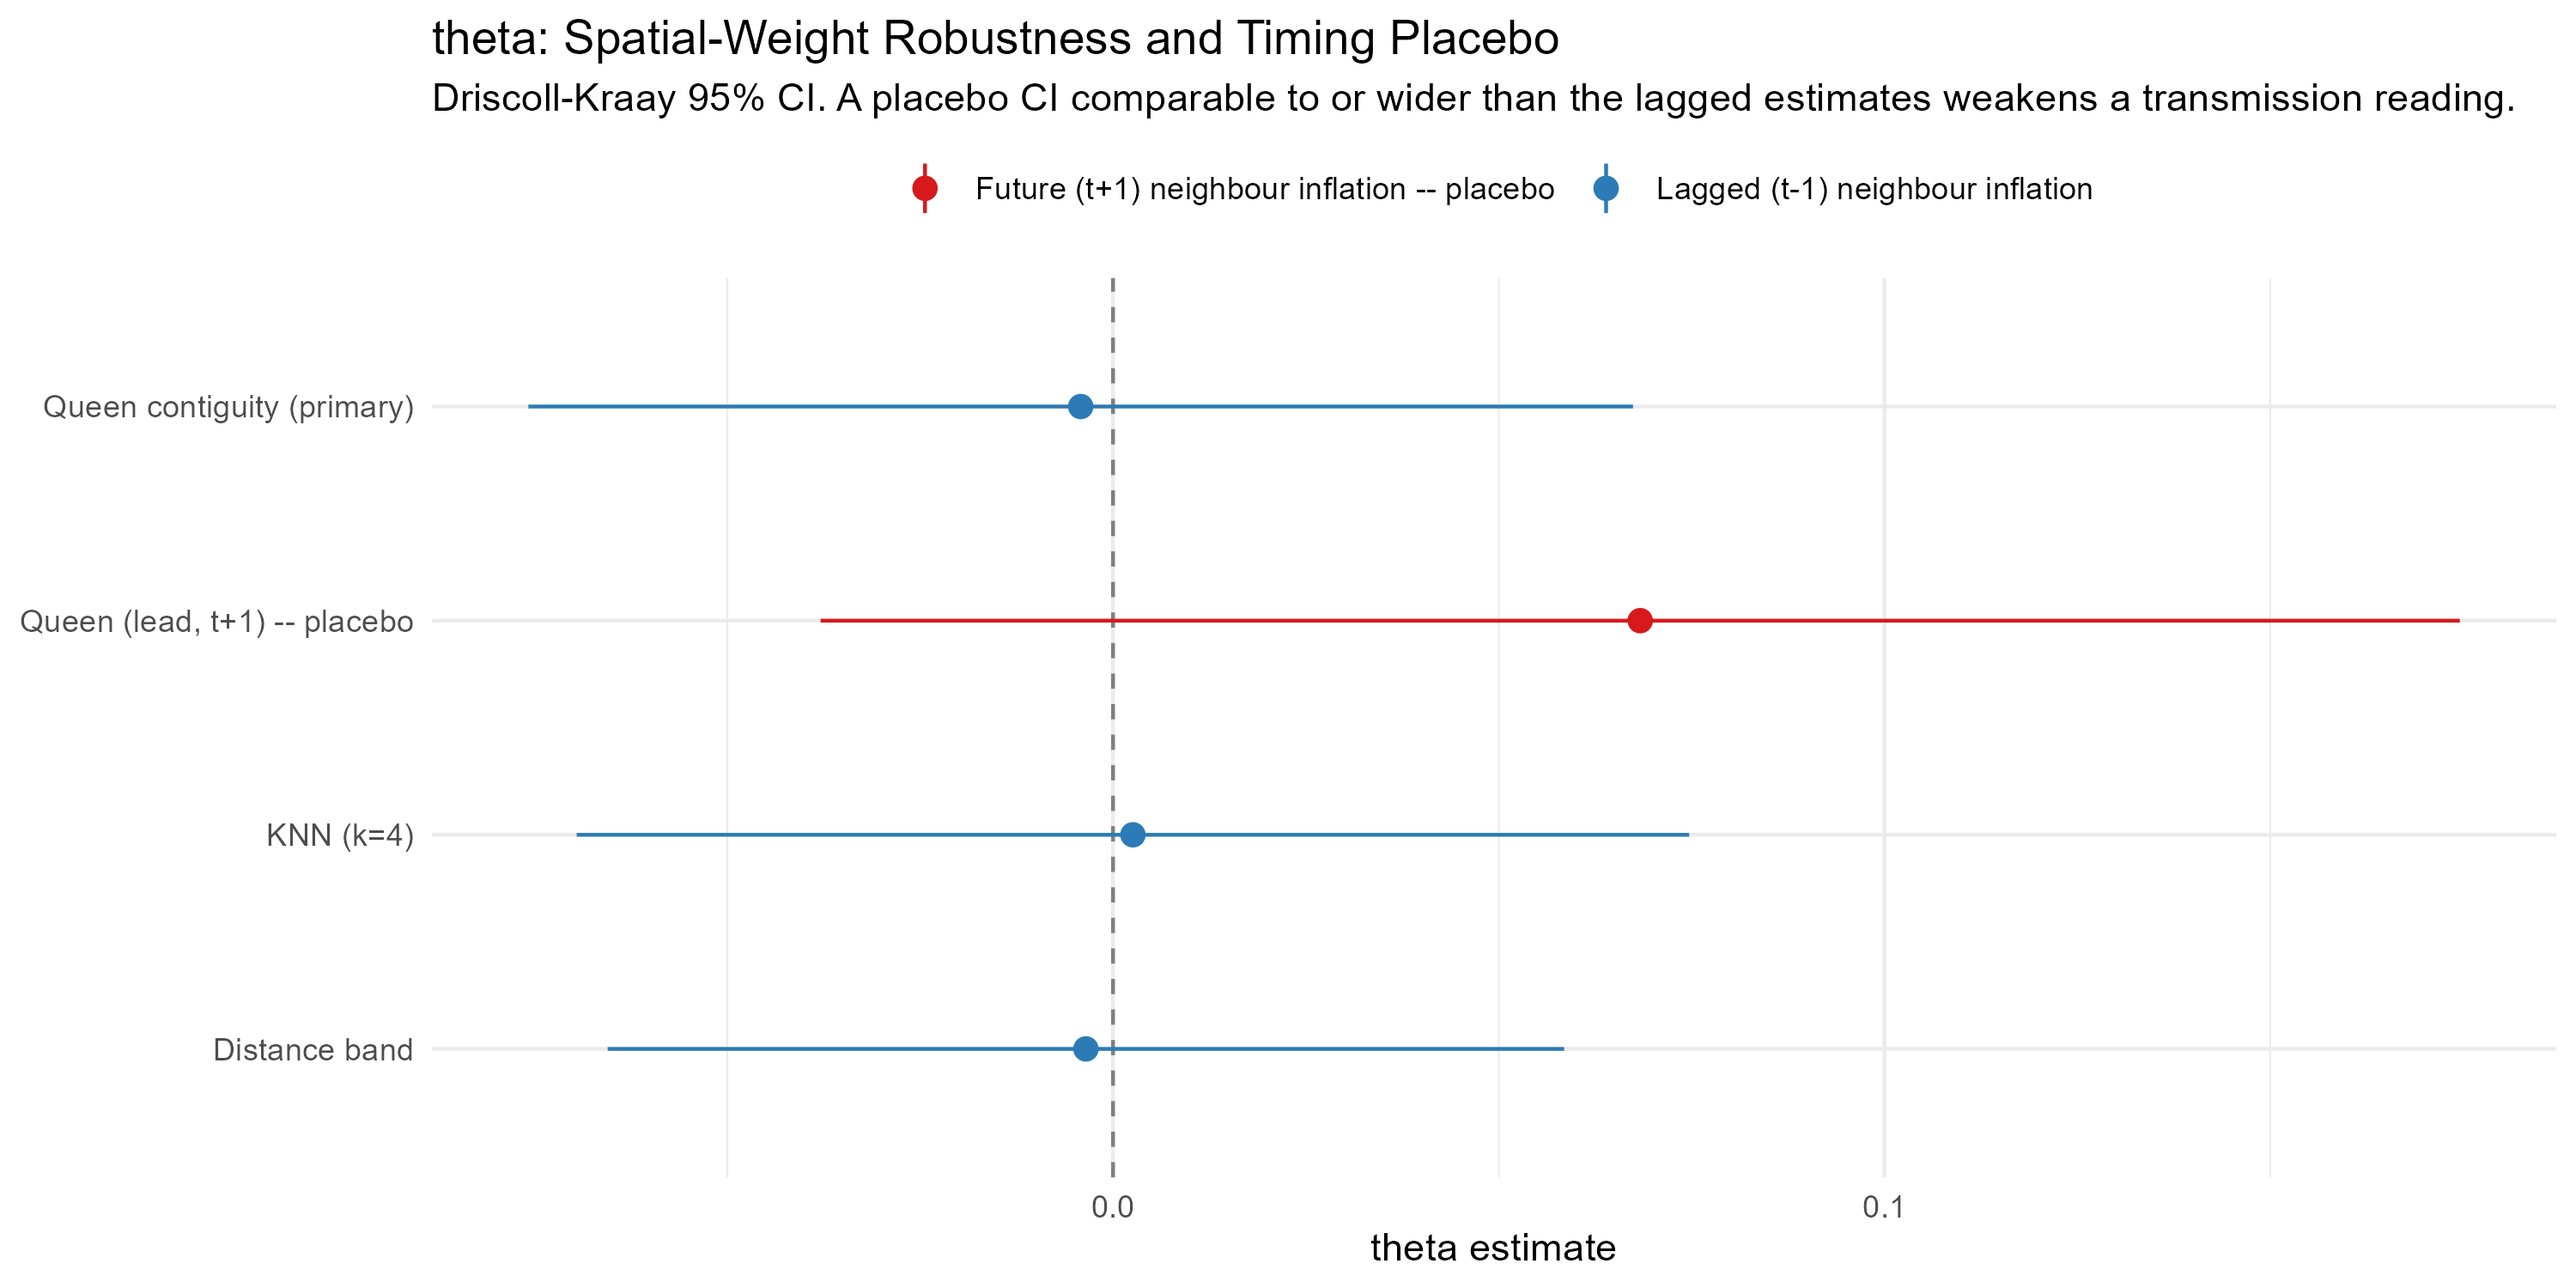
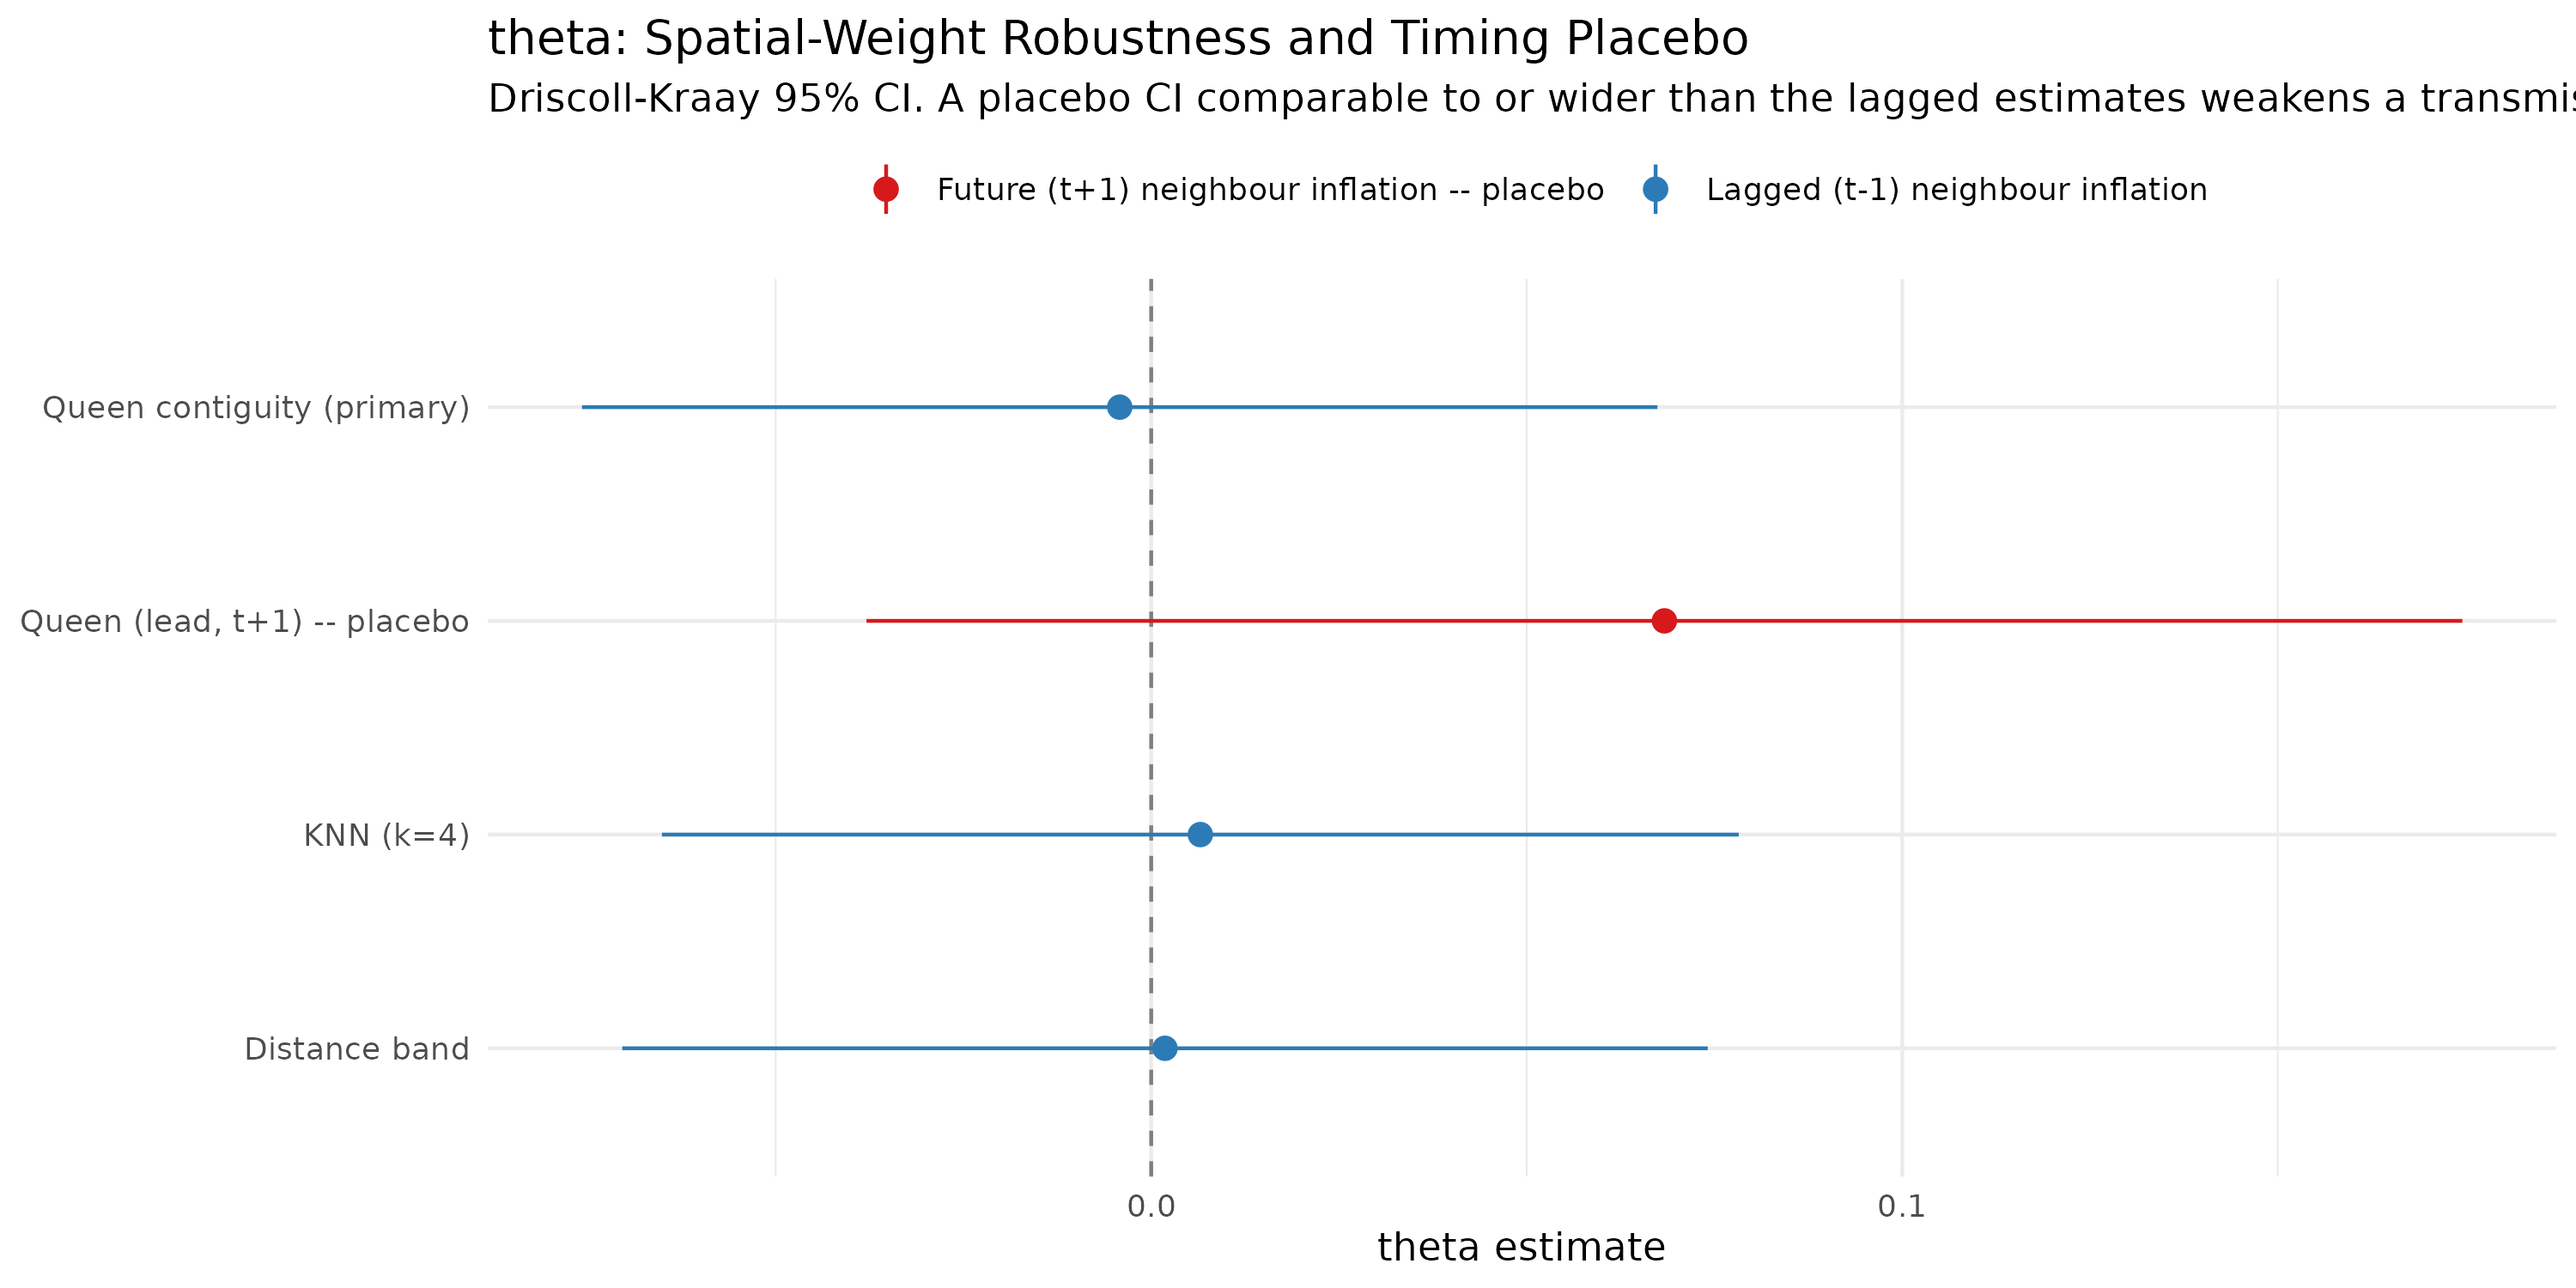
chore(results): regenerate distance-based robustness outputs
Stages 12, 13, 14, 15, 16 and 18 re-run in order with the original seeds. Only KNN/distance-band outputs changed (9 tables, 2 stage reports, 4 figures). All 128 other result tables, including every Queen-based estimate, wild-cluster bootstrap, LORO result and BH family, are identical to f88d776. Two files that differed only through the audit environment (a recorded sandwich version string; a stats::density() column changed in R 4.4.0) were kept at their committed versions.

Claude-Session: https://claude.ai/code/session_018UrGXNju7FcDZFSEZjyU6P

diff --git a/results_v2/nonlinear_spatial_dynamics/NONLINEARITY_REPORT.md b/results_v2/nonlinear_spatial_dynamics/NONLINEARITY_REPORT.md
@@ -54,8 +54,8 @@ No evidence of asymmetric positive/negative spatial predictive content.
 
 See `nl_F_A_regime_weight_robustness.csv`, `nl_F_A_regime_definition_robustness.csv`,
 `nl_F_B_spline_robustness.csv`, `nl_F_B_spline_extreme_obs_sensitivity.csv`.
-Section B's nominal significance (Queen K=3, p=0.017) does NOT replicate under KNN weights (p=0.092)
-or at K=6 (p=0.471); it IS present under distance-band weights (p=0.022) and is not driven by extreme
+Section B's nominal significance (Queen K=3, p=0.017) does NOT replicate under KNN weights (p=0.132)
+or at K=6 (p=0.471); it IS present under distance-band weights (p=0.006) and is not driven by extreme
 observations (excluding the top 1% Cook's-distance points leaves it similarly nominal). This is a mixed,
 not-fully-robust picture.
 

diff --git a/results_v2/final_robustness/FINAL_ROBUSTNESS_REPORT.md b/results_v2/final_robustness/FINAL_ROBUSTNESS_REPORT.md
@@ -20,7 +20,7 @@ All exclusion specs (single most influential month, top 3 months, top 1% observa
 
 ## Section D: spatial-weight robustness
 
-Queen p=0.316, KNN p=0.998, Distance p=0.832. Conclusion does not depend on W.
+Queen p=0.316, KNN p=0.985, Distance p=0.895. Conclusion does not depend on W.
 
 ## Section E: dynamic-horizon robustness
 
